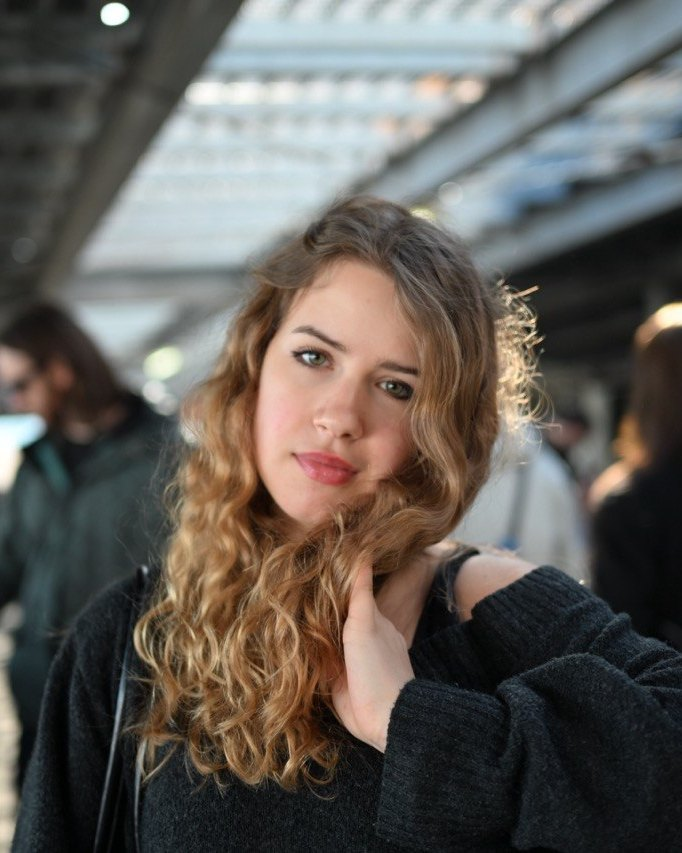
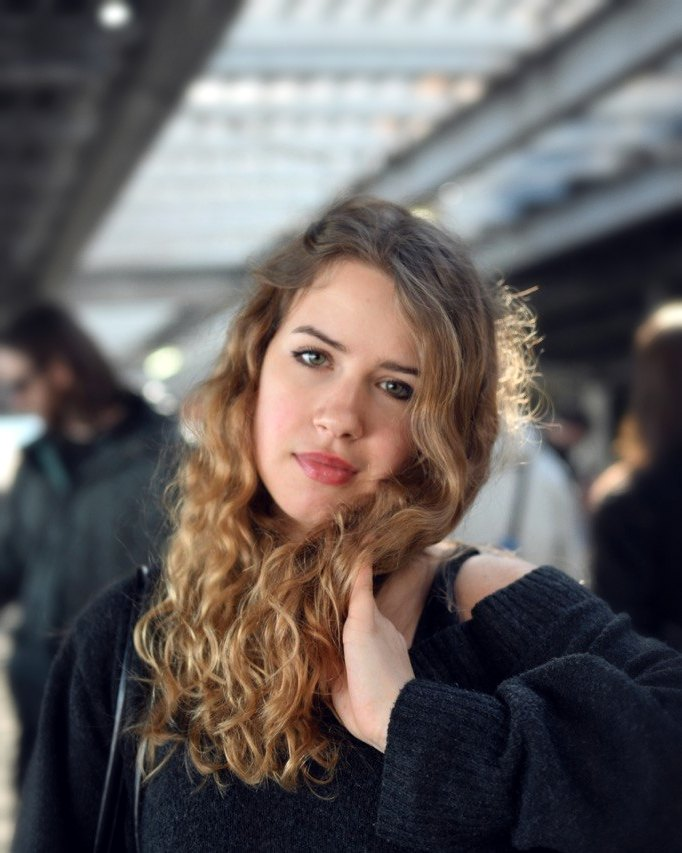
Finer pixel hover, graded portrait, San Francisco on the badge
Claude-Session: https://claude.ai/code/session_016Mzr6Kf9PfEHCmWYQMfzsw

diff --git a/index.html b/index.html
@@ -605,9 +605,9 @@ section,.sheet,.finale{overflow-x:clip}
             <dl class="badge-fields">
               <div><dt>Name</dt><dd>Dana Pashuk</dd></div>
               <div><dt>Role</dt><dd>Product Manager</dd></div>
-              <div><dt>Based</dt><dd>Buenos Aires</dd></div>
+              <div><dt>Based</dt><dd>San Francisco</dd></div>
             </dl>
-            <div class="badge-foot"><span>The holder of this card builds products that begin with people.</span><b id="baTime">UTC−3</b></div>
+            <div class="badge-foot"><span>The holder of this card builds products that begin with people.</span><b id="baTime">SF</b></div>
           </div>
         </div>
       </div>
@@ -1501,7 +1501,7 @@ if(reflCard){
 /* HERO: Buenos Aires time on the Currently card */
 (function(){
   const el=document.getElementById('baTime');if(!el)return;
-  function t(){try{el.textContent=new Intl.DateTimeFormat('en-US',{hour:'numeric',minute:'2-digit',timeZone:'America/Argentina/Buenos_Aires'}).format(new Date())+' BA';}catch(e){}}
+  function t(){try{el.textContent=new Intl.DateTimeFormat('en-US',{hour:'numeric',minute:'2-digit',timeZone:'America/Los_Angeles'}).format(new Date())+' SF';}catch(e){}}
   t();setInterval(t,15000);
 })();
 
@@ -1609,7 +1609,7 @@ addEventListener('keydown',e=>{if(e.key==='Escape')closeM()});
     function draw(){
       const W=wrap.clientWidth,H=wrap.clientHeight;if(!W||!H||!img.complete)return;
       if(cv.width!==W||cv.height!==H){cv.width=W;cv.height=H;}
-      const block=1+level*22;
+      const block=1+level*7;
       sm.width=Math.max(2,Math.round(W/block));sm.height=Math.max(2,Math.round(H/block));
       sx.drawImage(img,0,0,sm.width,sm.height);
       ctx.imageSmoothingEnabled=false;ctx.clearRect(0,0,W,H);ctx.drawImage(sm,0,0,W,H);
